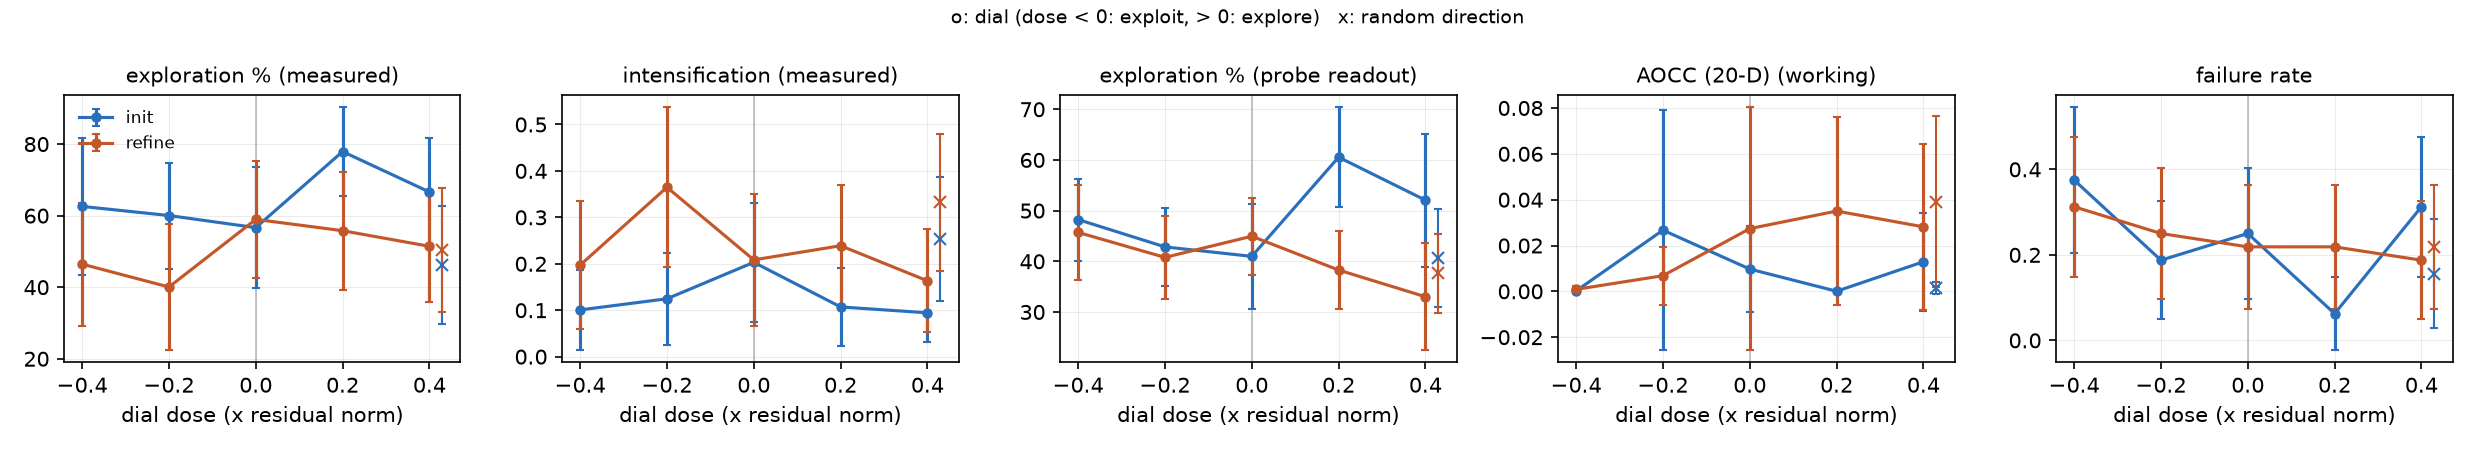
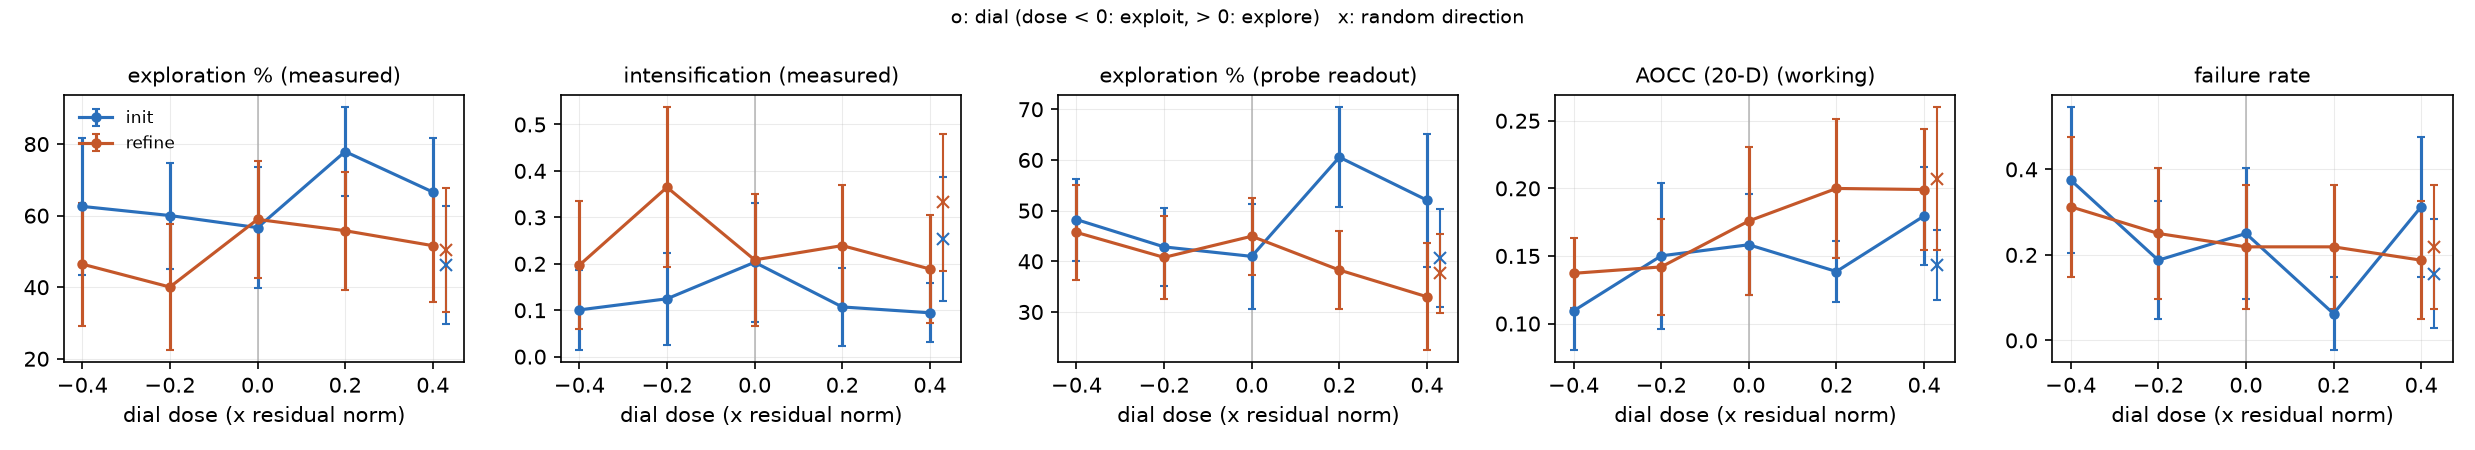
exp05: f2 screen re-scored with AOCC window 1e8
Claude-Session: https://claude.ai/code/session_01HiY2gsvFMFiKEhDB9kR9JT

diff --git a/experiments/mi/exp05_steering/results/transfer-bbob-f2/summary.md b/experiments/mi/exp05_steering/results/transfer-bbob-f2/summary.md
@@ -6,18 +6,18 @@ Dial `b_exploration_pct_resid@L27`, doses [-0.4, -0.2, 0.2, 0.4] x residual norm
 
 | phase | condition | n | failed | score | exploration_pct | intensification | last_improvement | probe_expl | population | differential_evolution | particle_swarm | restart | simulated_annealing | local_search | gradient | gen_tokens |
 |---|---|---|---|---|---|---|---|---|---|---|---|---|---|---|---|---|
-| init | none | 32 | 0.250 | 0.010 | 56.648 | 0.203 | 0.494 | 40.972 | 0.333 | 0.083 | 0.125 | 0.000 | 0.042 | 0.083 | 0.417 | 544.781 |
-| init | dial@-0.4 | 32 | 0.375 | 0.000 | 62.578 | 0.101 | 0.590 | 48.237 | 0.000 | 0.000 | 0.000 | 0.000 | 0.250 | 0.000 | 0.550 | 747.375 |
-| init | dial@-0.2 | 32 | 0.188 | 0.027 | 60.030 | 0.125 | 0.481 | 42.846 | 0.115 | 0.038 | 0.154 | 0.000 | 0.192 | 0.000 | 0.538 | 543.562 |
-| init | dial@+0.2 | 32 | 0.062 | 0.000 | 77.907 | 0.107 | 0.481 | 60.542 | 0.433 | 0.100 | 0.133 | 0.000 | 0.000 | 0.067 | 0.533 | 515.250 |
-| init | dial@+0.4 | 32 | 0.312 | 0.013 | 66.605 | 0.094 | 0.360 | 52.060 | 0.636 | 0.136 | 0.091 | 0.000 | 0.000 | 0.000 | 0.364 | 516.250 |
-| init | random@+0.4 | 32 | 0.156 | 0.001 | 46.301 | 0.253 | 0.444 | 40.640 | 0.333 | 0.074 | 0.111 | 0.000 | 0.148 | 0.037 | 0.407 | 549.781 |
-| refine | none | 32 | 0.219 | 0.027 | 58.950 | 0.208 | 0.468 | 44.944 | 0.560 | 0.320 | 0.080 | 0.040 | 0.040 | 0.080 | 0.520 | 701.781 |
-| refine | dial@-0.4 | 32 | 0.312 | 0.001 | 46.445 | 0.197 | 0.525 | 45.703 | 0.455 | 0.045 | 0.000 | 0.000 | 0.182 | 0.045 | 0.591 | 843.188 |
-| refine | dial@-0.2 | 32 | 0.250 | 0.007 | 40.047 | 0.365 | 0.549 | 40.772 | 0.500 | 0.208 | 0.125 | 0.000 | 0.042 | 0.083 | 0.458 | 769.156 |
-| refine | dial@+0.2 | 32 | 0.219 | 0.035 | 55.789 | 0.239 | 0.332 | 38.276 | 0.720 | 0.480 | 0.120 | 0.000 | 0.000 | 0.080 | 0.440 | 696.438 |
-| refine | dial@+0.4 | 32 | 0.188 | 0.028 | 51.427 | 0.163 | 0.433 | 33.004 | 0.846 | 0.500 | 0.115 | 0.077 | 0.038 | 0.077 | 0.154 | 712.406 |
-| refine | random@+0.4 | 32 | 0.219 | 0.039 | 50.369 | 0.333 | 0.431 | 37.616 | 0.520 | 0.240 | 0.200 | 0.000 | 0.040 | 0.080 | 0.480 | 728.125 |
+| init | none | 32 | 0.250 | 0.158 | 56.648 | 0.203 | 0.494 | 40.972 | 0.333 | 0.083 | 0.125 | 0.000 | 0.042 | 0.083 | 0.417 | 544.781 |
+| init | dial@-0.4 | 32 | 0.375 | 0.109 | 62.578 | 0.101 | 0.590 | 48.237 | 0.000 | 0.000 | 0.000 | 0.000 | 0.250 | 0.000 | 0.550 | 747.375 |
+| init | dial@-0.2 | 32 | 0.188 | 0.150 | 60.030 | 0.125 | 0.481 | 42.846 | 0.115 | 0.038 | 0.154 | 0.000 | 0.192 | 0.000 | 0.538 | 543.562 |
+| init | dial@+0.2 | 32 | 0.062 | 0.138 | 77.907 | 0.107 | 0.481 | 60.542 | 0.433 | 0.100 | 0.133 | 0.000 | 0.000 | 0.067 | 0.533 | 515.250 |
+| init | dial@+0.4 | 32 | 0.312 | 0.180 | 66.605 | 0.094 | 0.360 | 52.060 | 0.636 | 0.136 | 0.091 | 0.000 | 0.000 | 0.000 | 0.364 | 516.250 |
+| init | random@+0.4 | 32 | 0.156 | 0.144 | 46.301 | 0.253 | 0.444 | 40.640 | 0.333 | 0.074 | 0.111 | 0.000 | 0.148 | 0.037 | 0.407 | 549.781 |
+| refine | none | 32 | 0.219 | 0.176 | 58.950 | 0.208 | 0.468 | 44.944 | 0.560 | 0.320 | 0.080 | 0.040 | 0.040 | 0.080 | 0.520 | 701.781 |
+| refine | dial@-0.4 | 32 | 0.312 | 0.137 | 46.445 | 0.197 | 0.525 | 45.703 | 0.455 | 0.045 | 0.000 | 0.000 | 0.182 | 0.045 | 0.591 | 843.188 |
+| refine | dial@-0.2 | 32 | 0.250 | 0.142 | 40.047 | 0.365 | 0.549 | 40.772 | 0.500 | 0.208 | 0.125 | 0.000 | 0.042 | 0.083 | 0.458 | 769.156 |
+| refine | dial@+0.2 | 32 | 0.219 | 0.200 | 55.788 | 0.239 | 0.332 | 38.276 | 0.720 | 0.480 | 0.120 | 0.000 | 0.000 | 0.080 | 0.440 | 696.438 |
+| refine | dial@+0.4 | 32 | 0.188 | 0.199 | 51.610 | 0.189 | 0.443 | 33.004 | 0.846 | 0.500 | 0.115 | 0.077 | 0.038 | 0.077 | 0.154 | 712.406 |
+| refine | random@+0.4 | 32 | 0.219 | 0.207 | 50.369 | 0.333 | 0.431 | 37.616 | 0.520 | 0.240 | 0.200 | 0.000 | 0.040 | 0.080 | 0.480 | 728.125 |
 
 ## Slopes on the signed dial dose
 
@@ -25,11 +25,11 @@ Fixed effects per prompt x replicate; 95% CI from a bootstrap over them. `failed
 
 | phase | metric | n | slope | lo | hi |
 |---|---|---|---|---|---|
-| pooled | exploration_pct | 244 | 11.547 | -3.955 | 28.033 |
-| pooled | intensification | 244 | -0.079 | -0.191 | 0.029 |
-| pooled | last_improvement | 244 | -0.223 | -0.382 | -0.058 |
+| pooled | exploration_pct | 244 | 11.630 | -3.792 | 28.034 |
+| pooled | intensification | 244 | -0.068 | -0.181 | 0.051 |
+| pooled | last_improvement | 244 | -0.218 | -0.377 | -0.053 |
 | pooled | probe_expl_w | 244 | 0.519 | -10.712 | 12.039 |
-| pooled | score | 244 | 0.024 | 0.000 | 0.062 |
+| pooled | score | 244 | 0.083 | 0.043 | 0.126 |
 | pooled | failed_f | 320 | -0.133 | -0.297 | 0.031 |
 | pooled | population | 320 | 0.664 | 0.516 | 0.820 |
 | pooled | differential_evolution | 320 | 0.383 | 0.250 | 0.531 |
@@ -42,7 +42,7 @@ Fixed effects per prompt x replicate; 95% CI from a bootstrap over them. `failed
 | init | intensification | 122 | -0.047 | -0.173 | 0.063 |
 | init | last_improvement | 122 | -0.210 | -0.410 | 0.017 |
 | init | probe_expl_w | 122 | 14.027 | -3.962 | 31.255 |
-| init | score | 122 | -0.001 | -0.015 | 0.009 |
+| init | score | 122 | 0.058 | 0.016 | 0.093 |
 | init | failed_f | 160 | -0.125 | -0.359 | 0.109 |
 | init | population | 160 | 0.797 | 0.594 | 0.984 |
 | init | differential_evolution | 160 | 0.188 | 0.078 | 0.312 |
@@ -51,11 +51,11 @@ Fixed effects per prompt x replicate; 95% CI from a bootstrap over them. `failed
 | init | simulated_annealing | 160 | -0.266 | -0.453 | -0.094 |
 | init | local_search | 160 | 0.031 | -0.062 | 0.125 |
 | init | gradient | 160 | -0.359 | -0.579 | -0.156 |
-| refine | exploration_pct | 122 | 6.526 | -16.330 | 28.695 |
-| refine | intensification | 122 | -0.109 | -0.297 | 0.066 |
-| refine | last_improvement | 122 | -0.234 | -0.475 | 0.010 |
+| refine | exploration_pct | 122 | 6.685 | -16.094 | 28.857 |
+| refine | intensification | 122 | -0.086 | -0.276 | 0.096 |
+| refine | last_improvement | 122 | -0.225 | -0.463 | 0.016 |
 | refine | probe_expl_w | 122 | -11.902 | -24.843 | 0.562 |
-| refine | score | 122 | 0.047 | 0.003 | 0.110 |
+| refine | score | 122 | 0.106 | 0.038 | 0.184 |
 | refine | failed_f | 160 | -0.141 | -0.360 | 0.078 |
 | refine | population | 160 | 0.531 | 0.297 | 0.781 |
 | refine | differential_evolution | 160 | 0.578 | 0.359 | 0.812 |
@@ -73,31 +73,31 @@ Fixed effects per prompt x replicate; 95% CI from a bootstrap over them. `failed
 | dial@-0.4 | intensification | -0.052 | -0.182 | 0.083 |
 | dial@-0.4 | last_improvement | 0.116 | -0.062 | 0.280 |
 | dial@-0.4 | probe_expl_w | 0.392 | -8.647 | 9.389 |
-| dial@-0.4 | score | -0.028 | -0.078 | 0.001 |
+| dial@-0.4 | score | -0.057 | -0.114 | -0.010 |
 | dial@-0.4 | failed_f | 0.109 | -0.031 | 0.266 |
 | dial@-0.2 | exploration_pct | -8.798 | -26.259 | 8.211 |
 | dial@-0.2 | intensification | 0.026 | -0.119 | 0.174 |
 | dial@-0.2 | last_improvement | 0.052 | -0.093 | 0.199 |
 | dial@-0.2 | probe_expl_w | -1.638 | -10.316 | 7.686 |
-| dial@-0.2 | score | -0.014 | -0.054 | 0.012 |
+| dial@-0.2 | score | -0.029 | -0.071 | 0.006 |
 | dial@-0.2 | failed_f | -0.016 | -0.172 | 0.125 |
-| dial@+0.2 | exploration_pct | 15.670 | 0.365 | 30.286 |
-| dial@+0.2 | intensification | -0.080 | -0.197 | 0.033 |
+| dial@+0.2 | exploration_pct | 15.669 | 0.364 | 30.286 |
+| dial@+0.2 | intensification | -0.080 | -0.197 | 0.034 |
 | dial@+0.2 | last_improvement | -0.078 | -0.229 | 0.066 |
 | dial@+0.2 | probe_expl_w | 8.467 | -1.870 | 18.785 |
-| dial@+0.2 | score | -0.001 | -0.043 | 0.037 |
+| dial@+0.2 | score | -0.002 | -0.050 | 0.045 |
 | dial@+0.2 | failed_f | -0.094 | -0.219 | 0.031 |
-| dial@+0.4 | exploration_pct | -1.863 | -16.045 | 12.065 |
-| dial@+0.4 | intensification | -0.069 | -0.205 | 0.064 |
-| dial@+0.4 | last_improvement | -0.033 | -0.159 | 0.094 |
+| dial@+0.4 | exploration_pct | -1.734 | -15.879 | 12.218 |
+| dial@+0.4 | intensification | -0.051 | -0.192 | 0.084 |
+| dial@+0.4 | last_improvement | -0.026 | -0.152 | 0.102 |
 | dial@+0.4 | probe_expl_w | -3.284 | -14.833 | 7.851 |
-| dial@+0.4 | score | 0.003 | -0.043 | 0.042 |
+| dial@+0.4 | score | 0.022 | -0.018 | 0.064 |
 | dial@+0.4 | failed_f | 0.016 | -0.125 | 0.172 |
 | random@+0.4 | exploration_pct | -8.364 | -26.647 | 9.426 |
 | random@+0.4 | intensification | 0.093 | -0.066 | 0.260 |
-| random@+0.4 | last_improvement | 0.002 | -0.156 | 0.162 |
+| random@+0.4 | last_improvement | 0.003 | -0.156 | 0.163 |
 | random@+0.4 | probe_expl_w | -4.492 | -14.695 | 5.202 |
-| random@+0.4 | score | 0.001 | -0.043 | 0.039 |
+| random@+0.4 | score | 0.005 | -0.046 | 0.056 |
 | random@+0.4 | failed_f | -0.047 | -0.188 | 0.094 |
 
 ## Probe readout vs measured exploration

diff --git a/experiments/mi/exp05_steering/README.md b/experiments/mi/exp05_steering/README.md
@@ -931,6 +931,15 @@ Window widened to [1e-8, 1e8] for f2 (2026-11-15, user decision;
 `10_transfer.BBOB_AOCC_UPPER`), screen re-scored with `10_transfer.py
 --reevaluate` (generations unchanged; the 1e3 data and report are in
 `$MI_CACHE/backups/transfer-bbob-f2-aocc1e3/`).
+Re-scored result (failures unchanged: 43 init, 45 refine): working AOCC
+now spreads out (none at 0; quartiles 0.09 / 0.14 / 0.21; unsteered 0.16
+init, 0.18 refine). The dose slope on AOCC becomes significant and
+positive: +0.083 per unit dose (+0.043 to +0.126; init +0.058, refine
++0.106); paired against unsteered, −0.4 is worse (−0.06, −0.11 to
+−0.01) and +0.4 slightly better (+0.02, n.s.). Behaviour and concept
+slopes as above. So in a single generation on f2 the explore side of the
+dial scores higher, against the pre-registered prediction for f2
+(exploit ≥ control > explore). The LLaMEA campaign is the actual test.
 
 **f2 LLaMEA campaign (`llamea-bbob-f2`, started 2026-11-15 ~13:30Z on GPU
 3).** Same design as f20 (6 arms, seeds 500–509, budget 100), AOCC window

diff --git a/experiments/mi/README.md b/experiments/mi/README.md
@@ -434,4 +434,9 @@ Installed now (`mi` group): `torch`, `transformers`, `accelerate`,
   window [1e-8, 1e3] is nearly flat (93% of working algorithms < 0.01;
   median final regret 10^5.7), so the window needs widening before the f2
   LLaMEA campaign.
+- 2026-11-15: f2 AOCC window widened to [1e-8, 1e8] (user decision) and
+  the screen re-scored: AOCC dose slope +0.083 (+0.043 to +0.126), the
+  explore side scores higher in a single generation (prediction for f2
+  was the opposite). f2 LLaMEA campaign (`llamea-bbob-f2`) running on
+  GPU 3 (5 shards, started 12:29–12:41Z).
 
